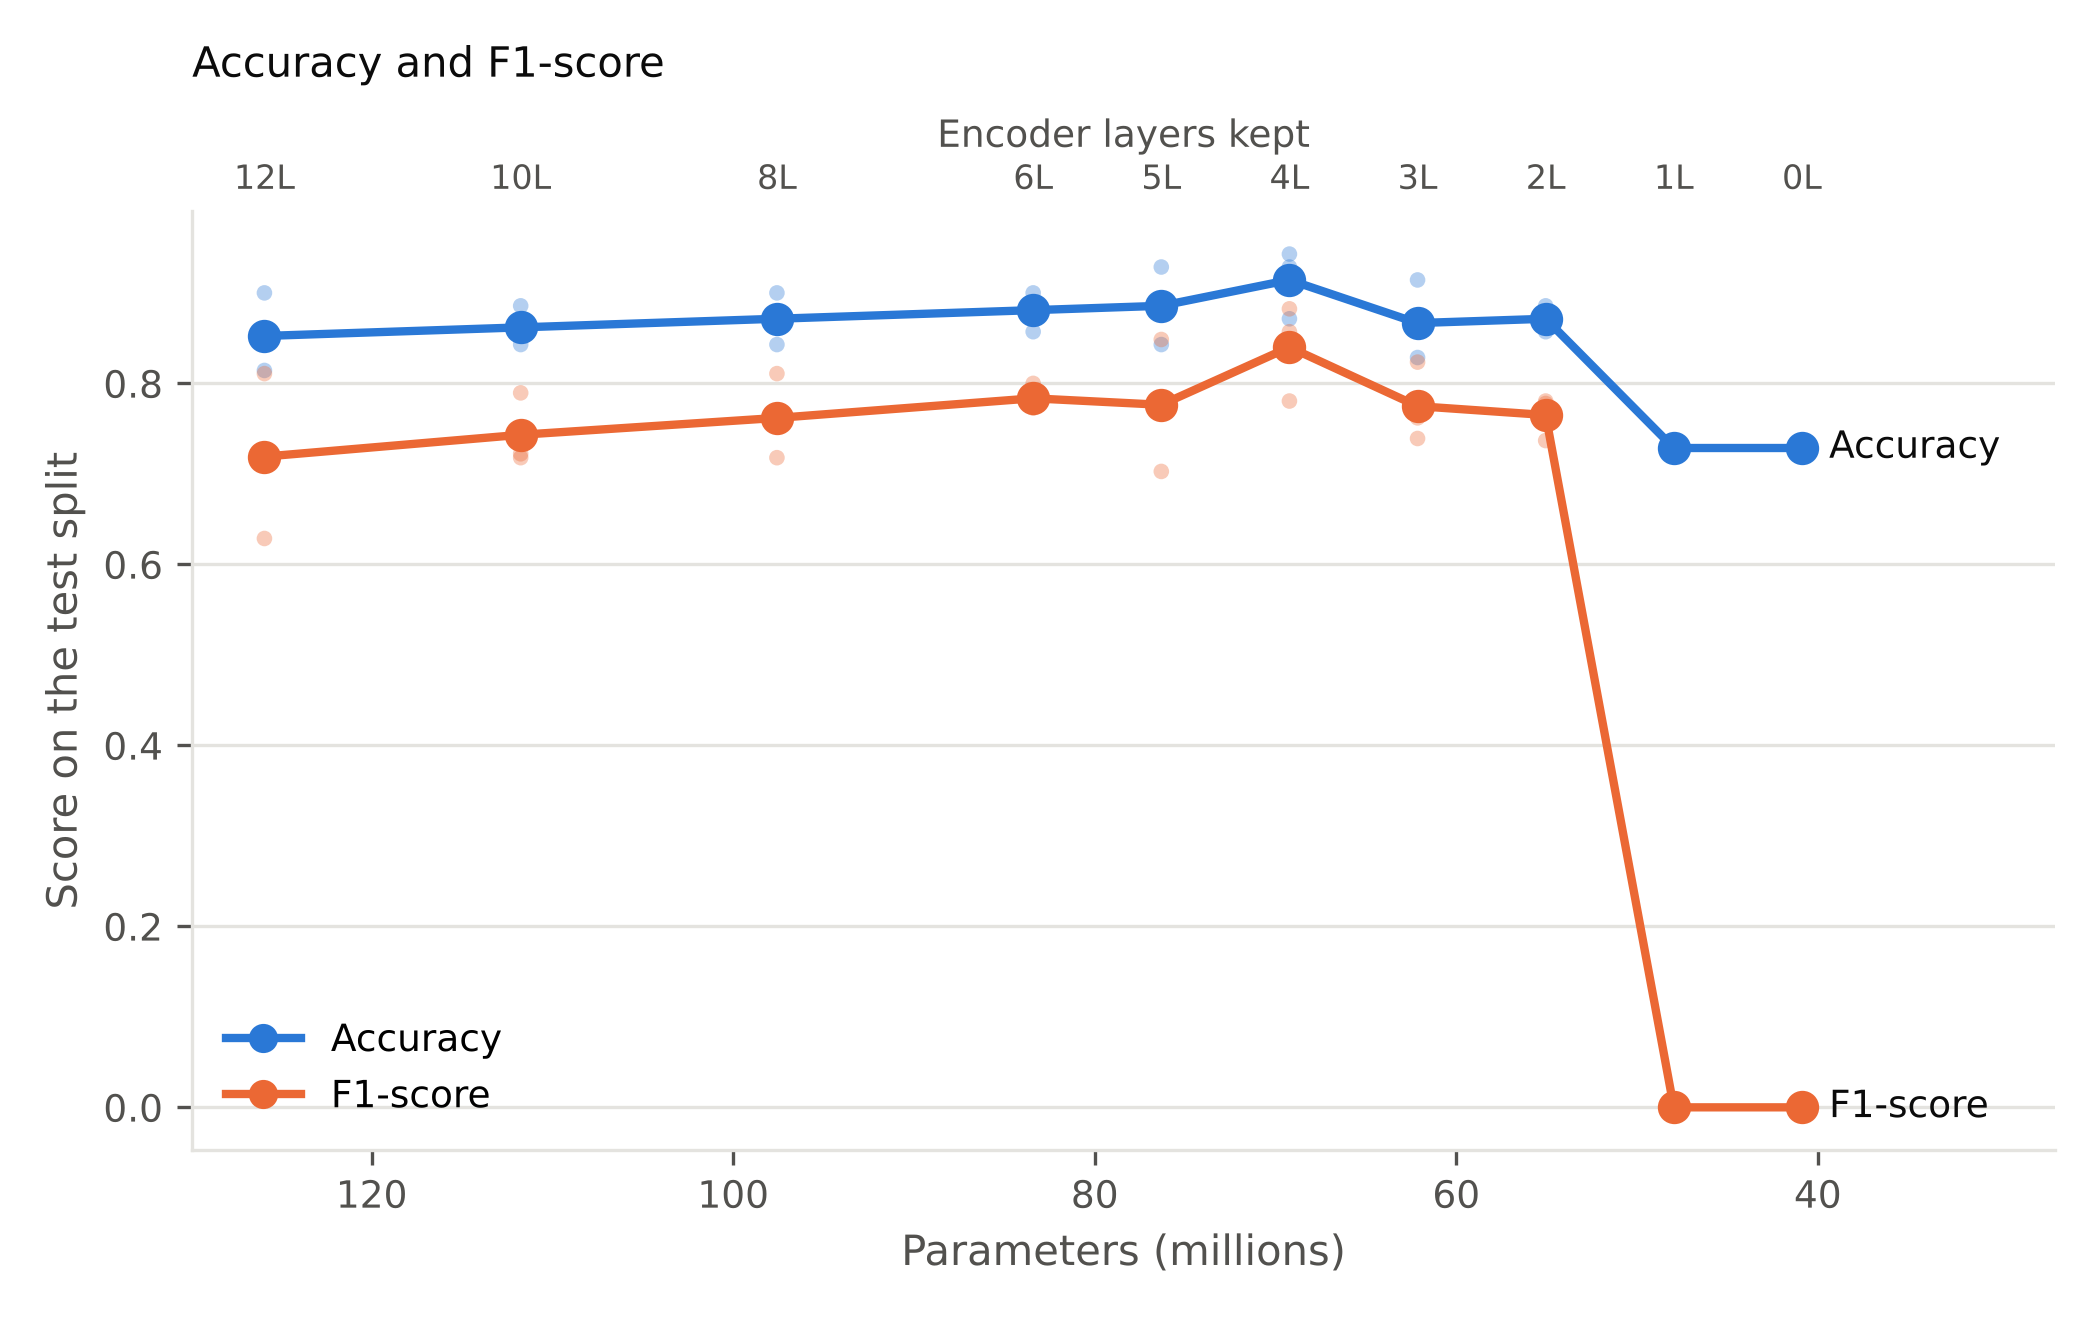
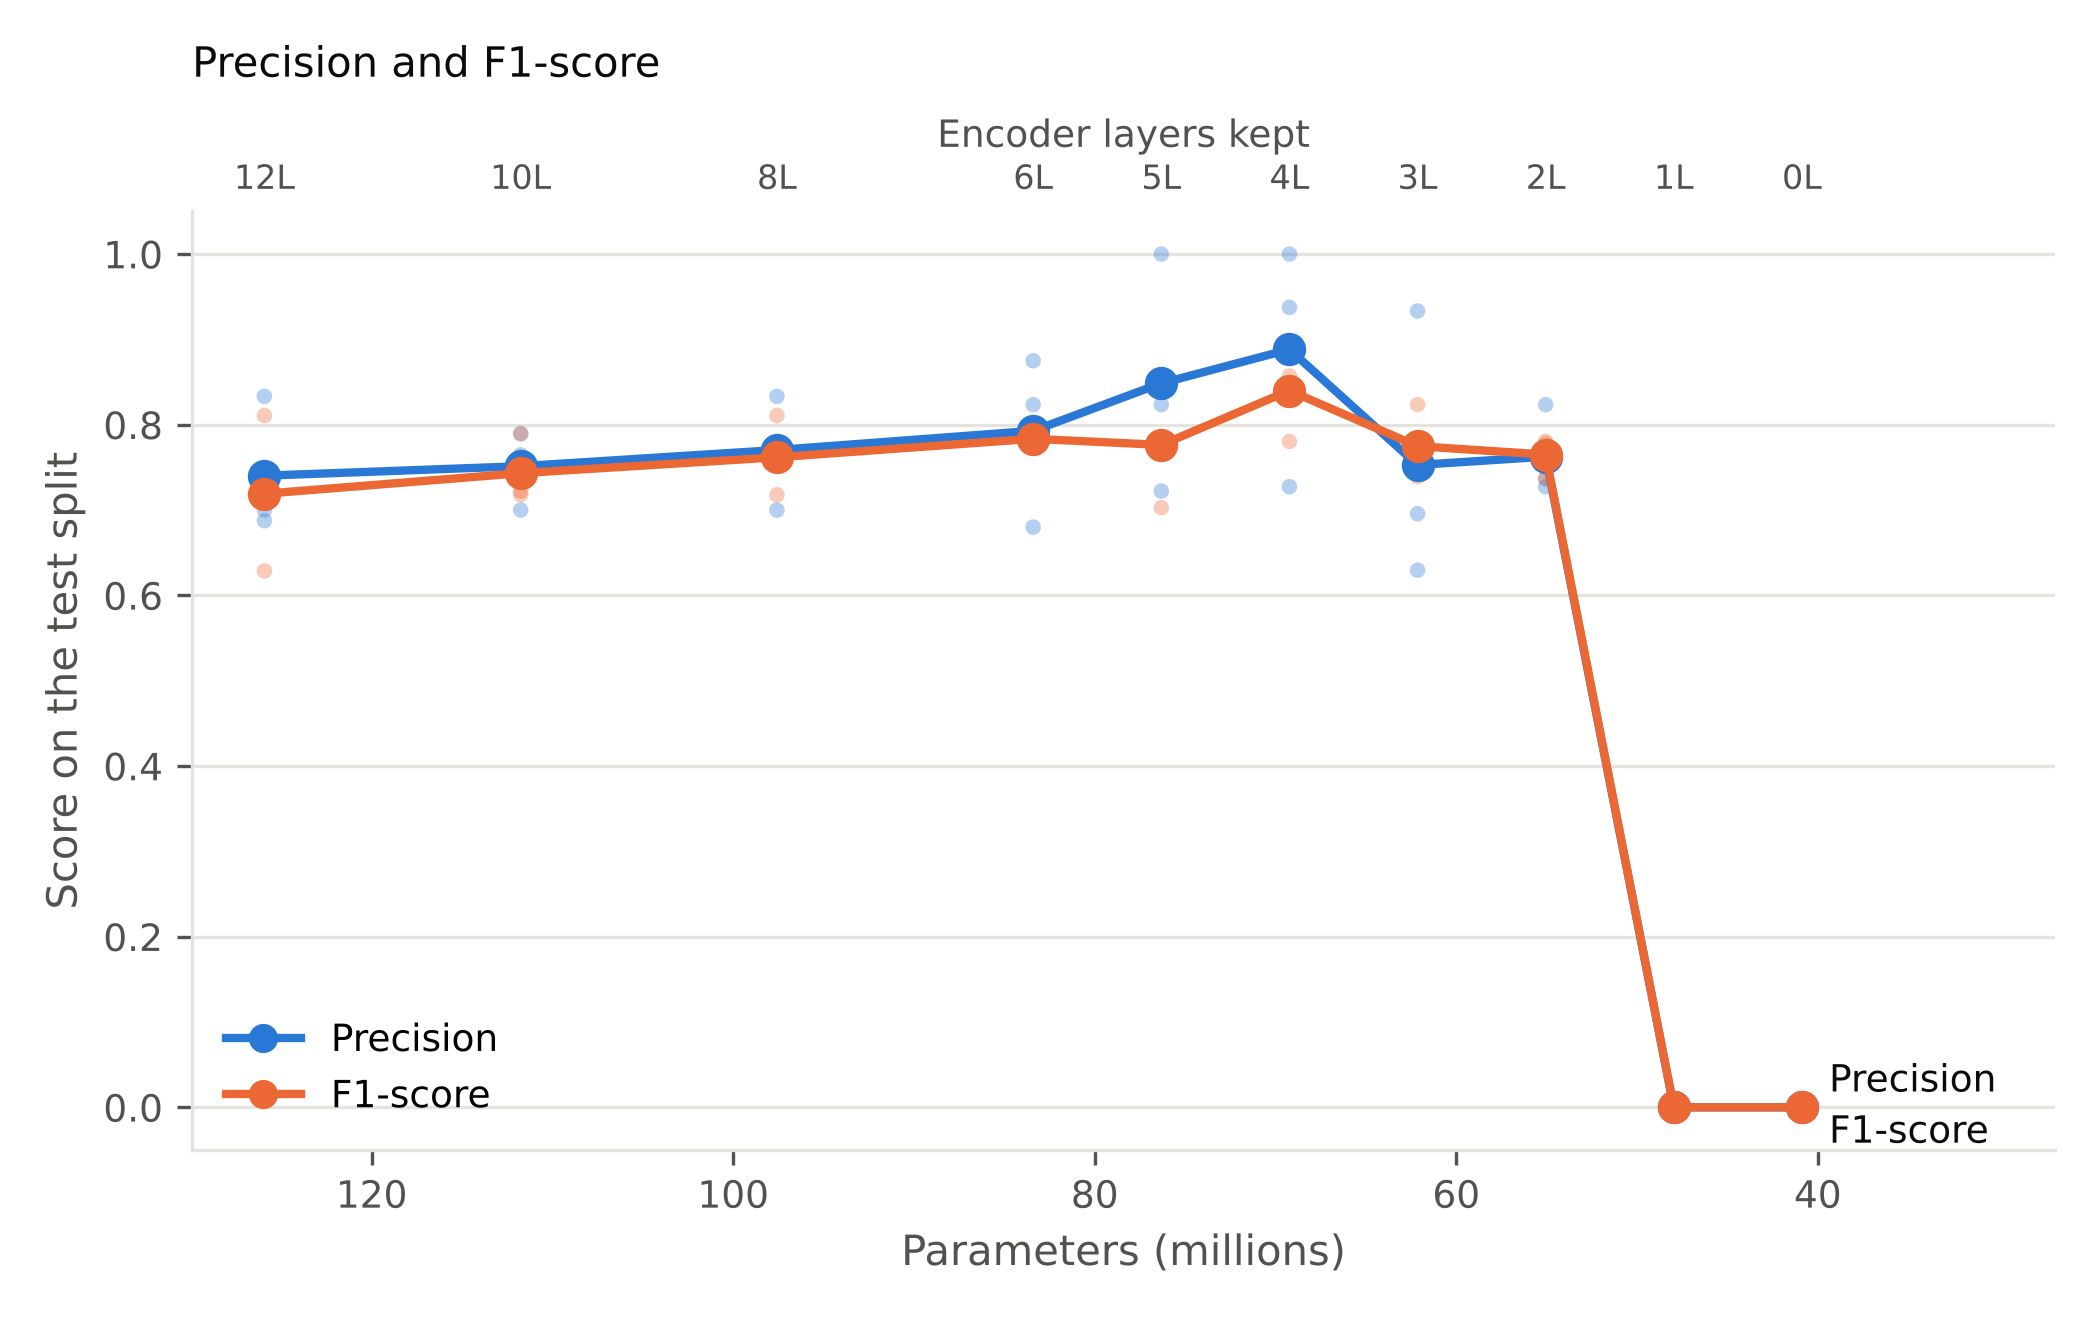
Plot precision with F1 for model size and add the paired-test figure
Figure 5 (model size) now shows precision and F1-score, the metrics of the
main experiment; accuracy stays in the table. New Figure 11 shows each
balancing method minus no balancing for precision and F1-score: mean
difference with the 95% interval of the corrected resampled t-test (Nadeau
and Bengio), plus Cliff's delta; results/main_stats.csv holds the numbers,
Holm-adjusted p-values included.

Claude-Session: https://claude.ai/code/session_017rhwVyM5rhv5k17AN45Ux5

diff --git a/scripts/5_plots.py b/scripts/5_plots.py
@@ -7,6 +7,8 @@ Reads results/main_experiment.csv and results/main_loss.csv written by
   figures/figure9b_main_f1_by_share.png            F1-score against the smelly share of the train side
   figures/figure10a_main_precision_scenarios.png   precision of every scenario, one dot per seed
   figures/figure10b_main_f1_scenarios.png          F1-score of every scenario, one dot per seed
+  figures/figure11_main_stats.png                  each method minus no balancing, with the paired test
+  results/main_stats.csv                           the numbers behind figure 11
   figures/figure12_main_cost.png                   F1-score against training time per scenario
   figures/figure8_main_loss.png                    train loss per epoch of the 4- and 12-layer none runs
 
@@ -19,7 +21,7 @@ docstring of the function that draws it. Precision, recall and F1 are those of
 the smelly class.
 
 Usage:
-    pip install matplotlib
+    pip install matplotlib scipy
     python scripts/5_plots.py
     python scripts/5_plots.py --representation nocomment --suffix _nocomment
 """
@@ -185,6 +187,92 @@ def plot_cost(rows, out):
     save(plt, fig, out)
 
 
+def paired_stats(rows, metric, k_train=280, k_test=70):
+    """Each method minus no balancing over the same seeds: mean difference, its 95% interval and
+    p-value from the corrected resampled t-test (Nadeau and Bengio, 2003), which widens the
+    variance by n_test/n_train because the Monte Carlo splits share methods, Holm-adjusted over
+    the six comparisons, and Cliff's delta between the two sets of seed scores."""
+    import math
+    from scipy import stats
+    base = {r["seed"]: float(r[metric]) for r in rows
+            if r["scenario"] == "none" and r["smell_pct"] == "27.5" and r["layers"] == "4"}
+    seeds = sorted(base, key=int)
+    out = []
+    for scenario, share, name, _ in SCENARIO_ROWS[2:]:
+        other = {r["seed"]: float(r[metric]) for r in rows
+                 if r["scenario"] == scenario and r["smell_pct"] == share and r["layers"] == "4"}
+        diffs = [other[s] - base[s] for s in seeds]
+        n = len(diffs)
+        mean, sd = statistics.mean(diffs), statistics.stdev(diffs)
+        se = math.sqrt((1 / n + k_test / k_train) * sd ** 2)
+        half = stats.t.ppf(0.975, n - 1) * se
+        p = 2 * stats.t.sf(abs(mean / se), n - 1) if se > 0 else 1.0
+        a, b = [other[s] for s in seeds], [base[s] for s in seeds]
+        delta = (sum(x > y for x in a for y in b) - sum(x < y for x in a for y in b)) / (n * n)
+        out.append({"metric": metric, "scenario": scenario, "smell_pct": share, "name": name,
+                    "mean_diff": mean, "ci_low": mean - half, "ci_high": mean + half, "p": p,
+                    "cliffs_delta": delta})
+    # Holm over the comparisons of this metric
+    order = sorted(range(len(out)), key=lambda i: out[i]["p"])
+    running = 0.0
+    for rank, i in enumerate(order):
+        running = max(running, min(1.0, (len(out) - rank) * out[i]["p"]))
+        out[i]["p_holm"] = running
+    return out
+
+
+def delta_size(delta):
+    """Magnitude of Cliff's delta after Romano et al. (2006)."""
+    d = abs(delta)
+    return "negligible" if d < 0.147 else "small" if d < 0.33 else "medium" if d < 0.474 else "large"
+
+
+def plot_stats(rows, out, out_csv):
+    """Difference from no balancing (4 layers, same seeds 0-9) for precision (left) and F1-score
+    (right): dot = mean difference, bar = 95% interval of the corrected resampled t-test, dashed
+    line = no difference; an interval that crosses zero means no significant difference. The
+    number beside each row is Cliff's delta; the Holm-adjusted p-values are in out_csv (all 1.00
+    in the paper's run, so the caption states them once instead of on every row)."""
+    plt = setup()
+    results = {m: paired_stats(rows, m) for m in ("precision", "f1")}
+    fig, axes = plt.subplots(1, 2, figsize=(7.2, 3.9), sharey=True)
+    colors = {m: c for m, _, c, _ in METHODS}
+    markers = {m: k for m, _, _, k in METHODS}
+    for ax, (metric, label) in zip(axes, (("precision", "Precision"), ("f1", "F1-score"))):
+        res = results[metric]
+        for y, r in enumerate(reversed(res)):
+            color = colors[r["scenario"]]
+            ax.plot([r["ci_low"], r["ci_high"]], [y, y], color=color, linewidth=1.6, alpha=0.6)
+            ax.plot([r["mean_diff"]], [y], marker=markers[r["scenario"]], markersize=7, color=color,
+                    markeredgecolor="white", markeredgewidth=1.2, linestyle="none", zorder=3)
+            ax.text(1.03, y, f"\u03b4 {r['cliffs_delta']:+.2f}",
+                    transform=ax.get_yaxis_transform(), fontsize=7.5, color=MUTED, va="center")
+        ax.axvline(0, color=MUTED, linestyle="--", linewidth=1)
+        # One x range for both panels, so a difference reads the same on the left and the right
+        low = min(r["ci_low"] for m in results for r in results[m])
+        high = max(r["ci_high"] for m in results for r in results[m])
+        ax.set_xlim(low - 0.01, high + 0.01)
+        ax.set_xlabel(f"{label} difference from no balancing", color=MUTED)
+        style(ax, label, grid_axis="x")
+    names = [r["name"] for r in reversed(results["precision"])]
+    axes[0].set_yticks(range(len(names)), names)
+    fig.tight_layout(w_pad=3.5)
+    os.makedirs(os.path.dirname(out) or ".", exist_ok=True)
+    fig.savefig(out, dpi=300)
+    plt.close(fig)
+    print(f"-> {out}")
+    with open(out_csv, "w", newline="", encoding="utf-8") as f:
+        cols = ["metric", "scenario", "smell_pct", "mean_diff", "ci_low", "ci_high", "p", "p_holm",
+                "cliffs_delta", "delta_size"]
+        writer = csv.DictWriter(f, fieldnames=cols)
+        writer.writeheader()
+        for metric in results:
+            for r in results[metric]:
+                writer.writerow({**{c: (round(r[c], 4) if isinstance(r.get(c), float) else r.get(c))
+                                    for c in cols[:-1]}, "delta_size": delta_size(r["cliffs_delta"])})
+    print(f"-> {out_csv}")
+
+
 def plot_loss(loss_rows, out):
     """Mean train loss per epoch over the seeds (0-9) of the no-balancing runs with 4 and 12 encoder
     layers, each seed as a faint line, the mean at epoch 20 written at the line end. The dotted
@@ -233,6 +321,8 @@ def main():
     plot_by_share(rows, "f1", "F1-score", out("figure9b_main_f1_by_share"))
     plot_scenarios(rows, "precision", "Precision", out("figure10a_main_precision_scenarios"))
     plot_scenarios(rows, "f1", "F1-score", out("figure10b_main_f1_scenarios"))
+    plot_stats(rows, out("figure11_main_stats"), os.path.join(os.path.dirname(args.results) or ".",
+                                                               f"main_stats{args.suffix}.csv"))
     plot_cost(rows, out("figure12_main_cost"))
     plot_loss(loss_rows, out("figure8_main_loss"))
 

diff --git a/scripts/3_model_size.py b/scripts/3_model_size.py
@@ -6,7 +6,7 @@ datasets/dataset_seed<seed>.csv and scores it on the test split. Each run
 appends one row to results/model_size.csv (finished runs are skipped on a
 rerun) and the mean train loss of every epoch to results/model_size_loss.csv,
 to see whether the larger models memorise the train split. Two figures plot,
-against the parameter count, accuracy and F1-score
+against the parameter count, precision and F1-score
 (figures/figure5_model_size_scores.png, Figure 5) and fine-tuning time and,
 when measured, energy (figures/figure6_model_size_cost.png, Figure 6); a third
 plots the train loss per epoch of a few sizes
@@ -262,7 +262,7 @@ def run(seed, n_layers, args, load=load_model_and_tokenizer):
 def plot(results, out_scores, out_cost):
     """Two figures against the parameter count, from the full model on the left to the smallest
     on the right, with the encoder layers kept on the top axis:
-      out_scores  accuracy and F1-score of the smelly class on the test split; a line is the
+      out_scores  precision and F1-score of the smell class on the test split; a line is the
                   mean over the seeds in results (42, 43 and 44 in the paper) and each faint
                   dot one seed
       out_cost    fine-tuning time (left axis, minutes) and, when CodeCarbon measured every
@@ -315,10 +315,10 @@ def plot(results, out_scores, out_cost):
         fig.savefig(out, dpi=300)
         plt.close(fig)
 
-    # Accuracy and F1-score
+    # Precision and F1-score, the metrics of the main experiment; accuracy is left to the table
     fig, ax = plt.subplots(figsize=(7, 4.4))
     ends = []
-    for metric, color, name in [("accuracy", ACC_COLOR, "Accuracy"), ("f1", F1_COLOR, "F1-score")]:
+    for metric, color, name in [("precision", ACC_COLOR, "Precision"), ("f1", F1_COLOR, "F1-score")]:
         means = draw(ax, metric, color)
         ax.plot([], [], color=color, linewidth=2, marker="o", markersize=6, label=name)
         ends.append([means[0], name])
@@ -333,7 +333,7 @@ def plot(results, out_scores, out_cost):
         ax.text(params[0] - 1.5, y, name, color=INK, fontsize=9, va="center")
     ax.set_ylabel("Score on the test split", color=MUTED)
     ax.legend(frameon=False, loc="lower left", fontsize=9)
-    frame(fig, ax, "Accuracy and F1-score")
+    frame(fig, ax, "Precision and F1-score")
     save(fig, out_scores)
 
     # Fine-tuning time and energy; energy only when CodeCarbon measured every run
